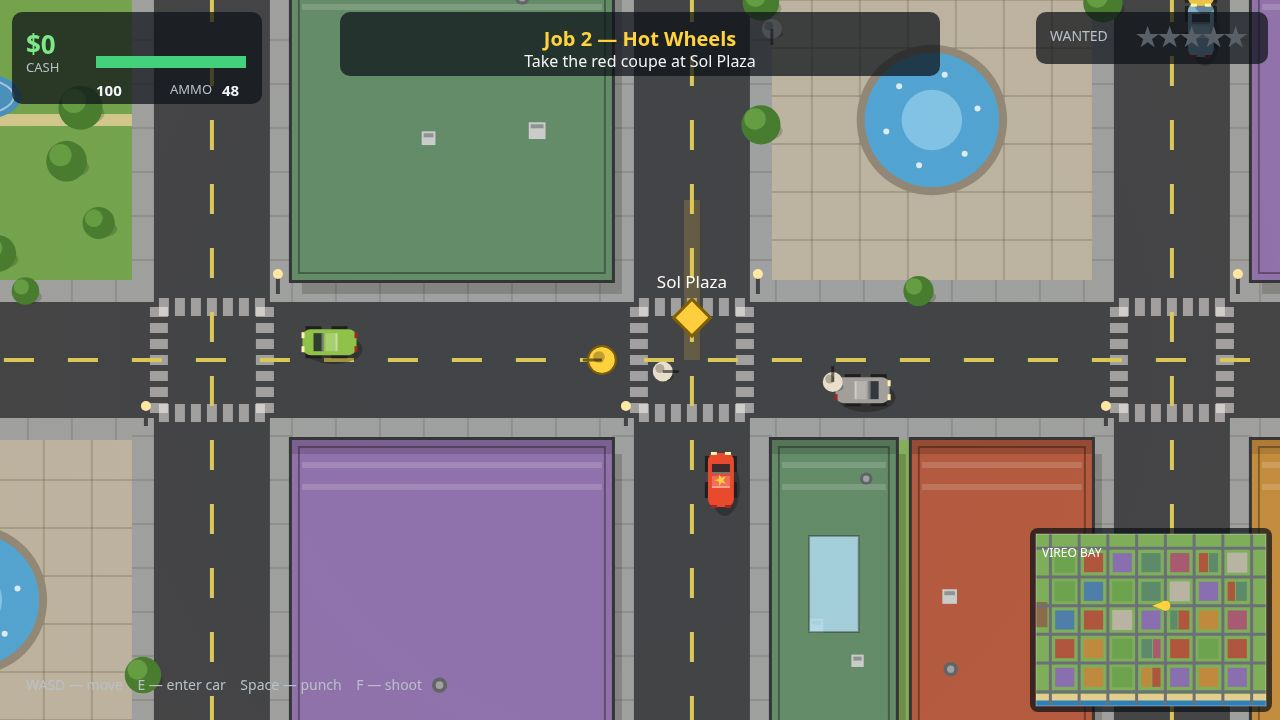
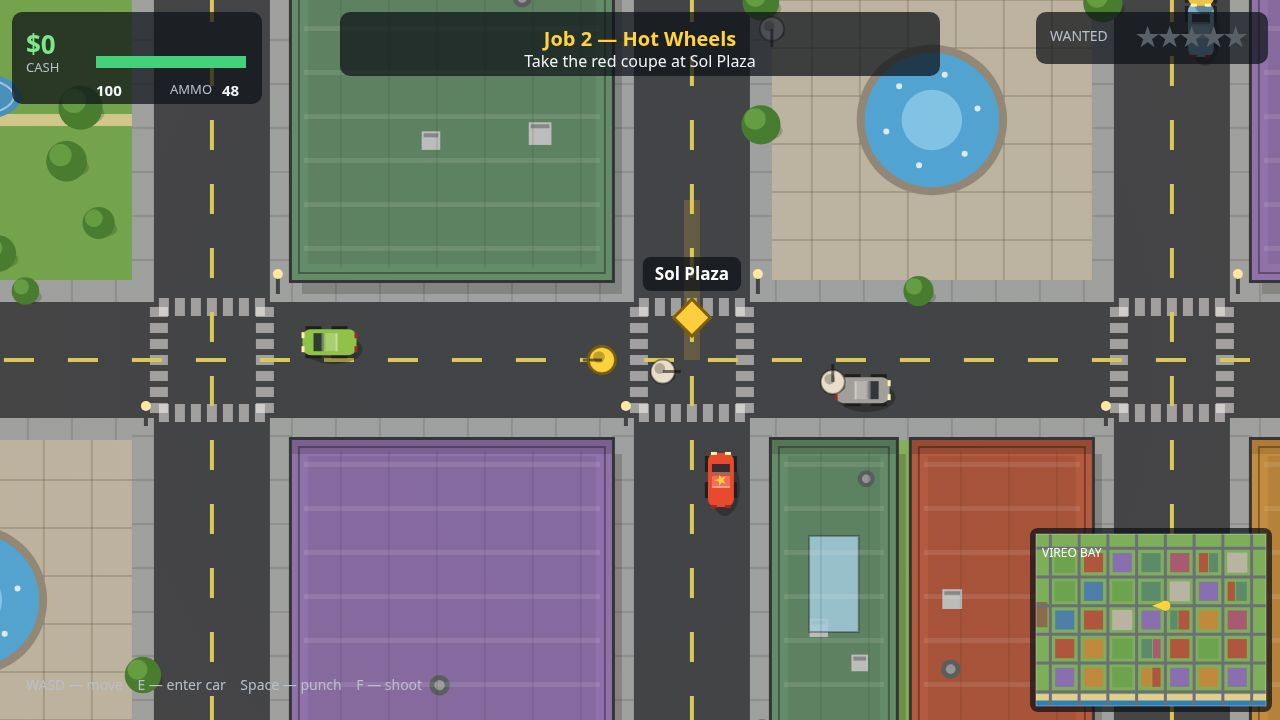
Round 5: paneled roofs, brighter title, readable labels — resubmit candidate

diff --git a/game/src/render.js b/game/src/render.js
@@ -370,18 +370,21 @@ export function createRenderer(canvas) {
       if (b.roof) {
         for (const d of b.roof) {
           if (d.kind === 'ac') {
+            // Round 5: furniture drawn ~35% larger so it reads at a glance.
+            const s = d.s * 1.35;
             context.fillStyle = '#c8ccd0';
-            context.fillRect(d.x, d.y, d.s, d.s);
+            context.fillRect(d.x, d.y, s, s);
             context.fillStyle = '#8a9096';
-            context.fillRect(d.x + 2, d.y + 2, d.s - 4, 4);
+            context.fillRect(d.x + 2, d.y + 2, s - 4, 4);
           } else if (d.kind === 'vent') {
+            const s = d.s * 1.35;
             context.fillStyle = '#5a6068';
             context.beginPath();
-            context.arc(d.x, d.y, d.s, 0, Math.PI * 2);
+            context.arc(d.x, d.y, s, 0, Math.PI * 2);
             context.fill();
             context.fillStyle = '#9aa0a6';
             context.beginPath();
-            context.arc(d.x, d.y, d.s * 0.5, 0, Math.PI * 2);
+            context.arc(d.x, d.y, s * 0.5, 0, Math.PI * 2);
             context.fill();
           } else if (d.kind === 'sky') {
             context.fillStyle = 'rgba(170, 220, 245, 0.85)';
@@ -416,9 +419,20 @@ export function createRenderer(canvas) {
           }
         }
       }
-      context.fillStyle = 'rgba(255,255,255,0.16)';
-      context.fillRect(b.x + 10, b.y + 22, b.width - 20, 6);
-      context.fillRect(b.x + 10, b.y + 44, b.width - 20, 6);
+      // Round 5: the roof reads as a roof, not a flat slab — a two-tone inset
+      // panel, repeating panel bands across the whole roof, and vertical seams,
+      // all derived from the building's own rect (no RNG, fully deterministic).
+      // Roof furniture is drawn a little larger so it reads at a glance.
+      context.fillStyle = 'rgba(0,0,0,0.07)';
+      context.fillRect(b.x + 16, b.y + 16, b.width - 32, b.height - 32);
+      context.fillStyle = 'rgba(255,255,255,0.10)';
+      for (let by = b.y + 22; by < b.y + b.height - 12; by += 44) {
+        context.fillRect(b.x + 12, by, b.width - 24, 5);
+      }
+      context.fillStyle = 'rgba(0,0,0,0.08)';
+      for (let bx = b.x + 48; bx < b.x + b.width - 12; bx += 48) {
+        context.fillRect(bx, b.y + 12, 2, b.height - 24);
+      }
     }
   }
 
@@ -531,10 +545,16 @@ export function createRenderer(canvas) {
     context.beginPath();
     context.ellipse(x + 2, y + 5, radius * 0.9, radius * 0.45, 0, 0, Math.PI * 2);
     context.fill();
+    // Round 5: a dark outline ring so walkers pop off grass and road alike.
     context.fillStyle = color;
     context.beginPath();
     context.arc(x, y, radius, 0, Math.PI * 2);
     context.fill();
+    context.strokeStyle = 'rgba(0,0,0,0.4)';
+    context.lineWidth = 2;
+    context.beginPath();
+    context.arc(x, y, radius, 0, Math.PI * 2);
+    context.stroke();
     context.fillStyle = 'rgba(0,0,0,0.25)';
     context.beginPath();
     context.arc(x - 3, y - 3, radius * 0.45, 0, Math.PI * 2);
@@ -573,7 +593,8 @@ export function createRenderer(canvas) {
       context.lineWidth = 3;
       context.strokeRect(-13, -13, 26, 26);
       context.restore();
-      plainText(place.label || '', place.x, place.y - 78 + bounce, 17, '#ffffff', 'center', 'middle');
+      // Round 5: the place name is drawn in screen space after the HUD (see
+      // drawPlaceLabel) so it can never hide under a HUD panel.
     }
     // Pickups.
     for (const pk of state.pickups) {
@@ -611,7 +632,8 @@ export function createRenderer(canvas) {
         context.ellipse(ped.x, ped.y, 14, 7, ped.angle, 0, Math.PI * 2);
         context.fill();
       } else {
-        drawPerson(ped.x, ped.y, ped.angle, ped.color, 10, false);
+        // Round 5: walkers a little larger (10 -> 12) so the city reads as lived in.
+        drawPerson(ped.x, ped.y, ped.angle, ped.color, 12, false);
       }
     }
     // Enemies, with a health bar.
@@ -746,6 +768,30 @@ export function createRenderer(canvas) {
     plainText('VIREO BAY', mx + 6, my + 14, 12, '#ffffff', 'left', 'top');
   }
 
+  /** The mission place name, in screen space after the HUD, clamped into the
+   *  safe area with a dark pill behind it — it can never hide under a panel. */
+  function drawPlaceLabel(state) {
+    const place = state.missionPlace;
+    if (!place || state.won || !place.label) return;
+    const cam = state.camera;
+    let sx = place.x - cam.x + VIEW.width / 2;
+    let sy = place.y - 78 - cam.y + VIEW.height / 2;
+    sx = Math.max(130, Math.min(VIEW.width - 130, sx));
+    // Round 5 fix: never slide under the minimap (its panel starts at y≈528).
+    sy = Math.max(128, Math.min(500, sy));
+    const size = 17;
+    if (!fonts.has(size)) fonts.set(size, `bold ${size}px ${FONT}`);
+    context.font = fonts.get(size);
+    const w = context.measureText(place.label).width;
+    context.fillStyle = 'rgba(12,16,24,0.72)';
+    roundRect(sx - w / 2 - 12, sy - 25, w + 24, 34, 8);
+    context.fill();
+    context.fillStyle = '#ffffff';
+    context.textAlign = 'center';
+    context.textBaseline = 'middle';
+    context.fillText(place.label, sx, sy - 7);
+  }
+
   function drawHud(state, city) {
     // Top-left panel: money, health bar, ammo.
     context.fillStyle = PALETTE.hudPanel;
@@ -852,7 +898,9 @@ export function createRenderer(canvas) {
     context.fillStyle = warm;
     context.fillRect(0, 0, VIEW.width, VIEW.height);
     if (screen === SCREEN_TITLE) {
-      context.fillStyle = 'rgba(8, 10, 18, 0.45)';
+      // Round 5: a lighter dim (0.45 -> 0.30) so the living city shows through
+      // the title instead of a murky backdrop.
+      context.fillStyle = 'rgba(8, 10, 18, 0.30)';
       context.fillRect(0, 0, VIEW.width, VIEW.height);
       drawPanel('VIREO BAY', [
         'An open-world crime game in a sun-soaked bay city.',
@@ -864,6 +912,7 @@ export function createRenderer(canvas) {
       return;
     }
     drawHud(state, city);
+    if (screen === SCREEN_PLAY) drawPlaceLabel(state);
     if (screen === SCREEN_PAUSED) {
       context.fillStyle = 'rgba(8, 10, 18, 0.55)';
       context.fillRect(0, 0, VIEW.width, VIEW.height);
